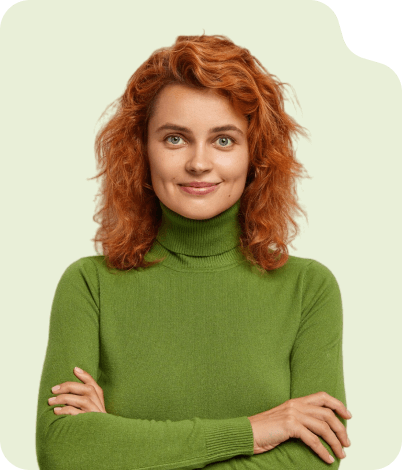
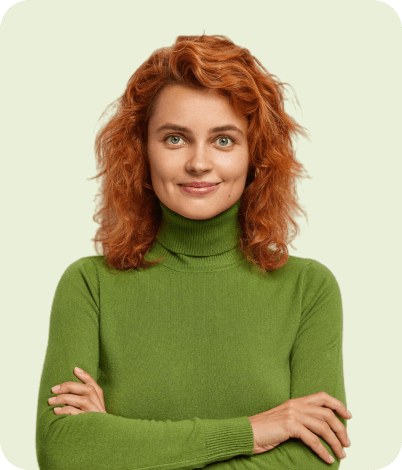
Add Testimonial Component

Changed region(s): [[0.806, 0.0, 1.0, 0.1787]]

diff --git a/src/Component1/Testimonial/Testimonial.jsx b/src/Component1/Testimonial/Testimonial.jsx
@@ -1,0 +1,211 @@
+import { useEffect, useRef } from "react";
+import { gsap } from "gsap";
+import { ScrollTrigger } from "gsap/ScrollTrigger";
+import testiThumb from "/images/testi-thumb.png";
+import testiProfile from "/images/testi-img.png";
+import testiProfile3 from "/images/testi-img.png";
+import testiProfile4 from "/images/testi-img.png";
+import { MdOutlineStarPurple500 } from "react-icons/md";
+import subtitleIcon from "/images/sub-title-icon.png";
+import shape from "/images/why-choose-shape.png";
+import shape2 from "/images/leaf.png";
+import aboutTeamImg from "/images/about-team-img.png";
+import aboutTeamImg2 from "/images/about-team-img2.png";
+import TestimonialCard from "./TestimonialCard";
+
+const testiData = [
+  {
+    workPlace: "Great 3d Modal",
+    testiDesc:
+      '"Partnering with this team helped us make our business more sustainable without into compromising ecological”',
+    testiRatingIcon: <MdOutlineStarPurple500 />,
+    testiProfile: testiProfile4,
+    testiName: "Jhon D. Alexon",
+    testiDesignation: "Web Developer",
+  },
+  {
+    workPlace: "Awesome Design",
+    testiDesc:
+      '"Partnering with this team helped us make our business more sustainable without into compromising ecological”',
+    testiRatingIcon: <MdOutlineStarPurple500 />,
+    testiProfile: testiProfile3,
+    testiName: "Michel Jiyang",
+    testiDesignation: "Web Developer",
+  },
+  {
+    workPlace: "Great Supports",
+    testiDesc:
+      '"Partnering with this team helped us make our business more sustainable without into compromising ecological”',
+    testiRatingIcon: <MdOutlineStarPurple500 />,
+    testiProfile: testiProfile,
+    testiName: "Anjelina Jholi",
+    testiDesignation: "Web Developer",
+  },
+  {
+    workPlace: "Smart Development",
+    testiDesc:
+      '"Partnering with this team helped us make our business more sustainable without into compromising ecological”',
+    testiRatingIcon: <MdOutlineStarPurple500 />,
+    testiProfile: testiProfile3,
+    testiName: "Mariya Watson",
+    testiDesignation: "Web Developer",
+  },
+];
+
+gsap.registerPlugin(ScrollTrigger);
+
+const Testimonial = () => {
+  const containerRef = useRef(null);
+  const stickyBoxRef = useRef(null);
+
+  useEffect(() => {
+    const ctx = gsap.context(() => {
+      const boxes = gsap.utils.toArray(".content-box");
+
+      // Sticky right box
+      ScrollTrigger.create({
+        trigger: stickyBoxRef.current,
+        start: "top 5%",
+        endTrigger: containerRef.current,
+        end: () => `bottom 99%`,
+        pin: true,
+        pinSpacing: false,
+        scrub: true,
+      });
+
+      // Activate boxes
+      boxes.forEach((box, i) => {
+        ScrollTrigger.create({
+          trigger: box,
+          start: "top 50%",
+          end: "bottom 50%",
+          onEnter: () => {
+            for (let j = 0; j <= i; j++) {
+              boxes[j].classList.add("before:opacity-0");
+              boxes[j].classList.remove("before:opacity-90");
+            }
+          },
+          onLeaveBack: () => {
+            for (let j = i; j < boxes.length; j++) {
+              boxes[j].classList.remove("before:opacity-0");
+              boxes[j].classList.add("before:opacity-90");
+            }
+          },
+        });
+      });
+
+      // Make sure all boxes are active when you reach bottom of scroll
+      ScrollTrigger.create({
+        trigger: containerRef.current,
+        start: "bottom bottom",
+        onEnter: () => {
+          boxes.forEach((box) => {
+            box.classList.add("before:opacity-0");
+            box.classList.remove("before:opacity-90");
+          });
+        },
+      });
+    }, containerRef);
+
+    return () => ctx.revert();
+  }, []);
+
+  return (
+    <div
+      className="bg-SecondaryColor-0 py-16 md:py-20 lg:py-[120px] -mt-[52px] relative overflow-hidden"
+      ref={containerRef}
+    >
+      <div className="absolute left-0 top-5">
+        <img
+          src={shape}
+          draggable={false}
+          alt="Shape"
+          className="animate-wiggle hidden lg:block"
+          style={{ animationDuration: "5s" }}
+        />
+      </div>
+      <div className="absolute right-[6%] top-28">
+        <img
+          src={shape2}
+          draggable={false}
+          alt="Shape"
+          className="animate-swing hidden lg:block"
+          style={{ animationDuration: "4s" }}
+        />
+      </div>
+      <div className="Container">
+        <div className="text-center  pt-[52px]">
+          <h5 className="font-Outfit text-lg font-medium leading-7 text-PrimaryColor-0 px-5 py-[3px] inline-flex items-center gap-2 border border-PrimaryColor-0 rounded-full">
+            <img src={subtitleIcon} alt="Icon" draggable={false} /> Projects
+          </h5>
+          <h1 className="font-Outfit font-semibold text-xl leading-7 sm:text-[34px] sm:leading-[44px] md:text-[44px] md:leading-[54px] lg:text-[30px] lg:leading-[40px] xl:text-[36px] xl:leading-[46px] 2xl:text-[50px] 2xl:leading-[58px] text-white mt-3.5">
+            We Bring Powerful Solution
+            <br />
+            Protect Environment
+          </h1>
+        </div>
+        <div className="grid grid-cols-2 gap-6 mt-[58px] mb-5">
+          {/* Left Column */}
+          <div className="space-y-6">
+            {testiData.map((item, index) => (
+              <div
+                key={index}
+                className="content-box relative before:absolute before:z-10 before:left-0 before:bottom-0 before:bg-gradient-to-b before:to-SecondaryColor-0 before:via-SecondaryColor-0/90 before:from-BodyBgDark-0/50 before:w-full before:h-full before:transition-all before:ease-linear before:duration-500"
+              >
+                <TestimonialCard {...item} />
+              </div>
+            ))}
+          </div>
+
+          {/* Right Column - Sticky Box */}
+          <div className="relative">
+            <div ref={stickyBoxRef} className="">
+              <div>
+                <div className="relative inline-block">
+                  <div className="absolute z-10 top-0 right-0">
+                    <div className="w-[85px] h-[70px] rounded-bl-[20px] bg-SecondaryColor-0 inline-block relative">
+                      <span className="absolute -left-[30px] top-0 rotate-180 size-[30px] inline-block bg-SecondaryColor-0 [clip-path:path('M0_0_Q0,30_30,30_L_0_30_Z')]"></span>
+                      <span className="absolute -bottom-[30px] right-0 rotate-180 size-[30px] inline-block bg-SecondaryColor-0 [clip-path:path('M0_0_Q0,30_30,30_L_0_30_Z')]"></span>
+                    </div>
+                  </div>
+                  <img
+                    src={testiThumb}
+                    alt="Testimonial Image"
+                    draggable={false}
+                  />
+                  <div className="absolute bottom-0 left-0 flex flex-col items-center justify-center text-center w-[220px] h-[230px] rounded-[20px] bg-PrimaryColor-0">
+                    <ul className="flex items-center -space-x-4">
+                      <li>
+                        <img
+                          src={aboutTeamImg}
+                          alt="About Team Image"
+                          draggable={false}
+                        />
+                      </li>
+                      <li>
+                        <img
+                          src={aboutTeamImg2}
+                          alt="About Team Image"
+                          draggable={false}
+                        />
+                      </li>
+                      <li className="relative z-10 size-14 flex items-center justify-center bg-PrimaryColor-0 border-[2.5px] border-white rounded-full font-Outfit text-white text-lg">
+                        5K+
+                      </li>
+                    </ul>
+                    <h6 className="font-Outfit text-white text-2xl leading-8 mt-7">
+                      Trusted Happy
+                      <br /> Customer
+                    </h6>
+                  </div>
+                </div>
+              </div>
+            </div>
+          </div>
+        </div>
+      </div>
+    </div>
+  );
+};
+
+export default Testimonial;

diff --git a/src/Component1/Testimonial/TestimonialCard.jsx b/src/Component1/Testimonial/TestimonialCard.jsx
@@ -1,20 +1,43 @@
 /* eslint-disable react/prop-types */
-// components/TestimonialCard.jsx
-const TestimonialCard = ({ image, name, role, text, active }) => (
-  <div
-    className={`testimonial-card transition-all duration-300 ease-in-out rounded-xl shadow p-6 mx-4 my-2 h-[200px] flex flex-col justify-center ${
-      active ? "bg-pink-200" : "bg-gray-200"
-    }`}
-  >
-    <div className="flex items-center mb-2">
-      <img src={image} alt={name} className="w-10 h-10 rounded-full mr-3" />
-      <div>
-        <h4 className="font-semibold text-base">{name}</h4>
-        <p className="text-sm text-gray-600">{role}</p>
+const TestimonialCard = ({
+  testiRatingIcon,
+  testiName,
+  testiProfile,
+  testiDesignation,
+  testiDesc,
+  workPlace,
+}) => {
+  return (
+    <div className="relative group px-4 sm:px-9 lg:px-4 xl:px-9 2xl:px-10 pt-4 sm:pt-8 lg:pt-4 xl:pt-12 pb-5 sm:pb-12 lg:pb-5 xl:pb-12 bg-BodyBgDark-0 rounded-[20px] ease-linear transition-all duration-500">
+      <ul className="flex items-center mb-5 gap-0.5">
+        {[...Array(5)].map((_, i) => (
+          <li key={i} className="text-ReviewText-0 text-2xl">
+            {testiRatingIcon}
+          </li>
+        ))}
+      </ul>
+      <p className="font-Outfit sm:text-lg lg:text-2xl xl:text-[28px] xl:leading-[40px] max-w-[530px] text-white font-light mb-9">
+        {testiDesc}
+      </p>
+
+      <div className="flex items-center gap-5">
+        <div>
+          <img src={testiProfile} draggable={false} alt="User Image" />
+        </div>
+        <div>
+          <h5 className="font-Outlet inline-block text-white text-xl sm:text-2xl lg:text-xl xl:text-2xl relative">
+            {testiName}
+          </h5>
+          <p className="font-NotoSans text-TextColor2-0 font-light flex items-center mt-2">
+            {testiDesignation}{" "}
+            <span className="relative pl-7 text-white before:absolute before:top-1/2 before:-translate-y-1/2 before:left-1.5 before:w-4 before:h-[1px] before:bg-TextColor2-0">
+              {workPlace}
+            </span>
+          </p>
+        </div>
       </div>
     </div>
-    <p className="text-gray-700 text-sm">{text}</p>
-  </div>
-);
+  );
+};
 
 export default TestimonialCard;

diff --git a/src/Component1/Whychoose/WhyChoose.jsx b/src/Component1/Whychoose/WhyChoose.jsx
@@ -61,11 +61,19 @@ const WhyChoose = () => {
         </div>
         <div className="grid grid-cols-1 lg:grid-cols-2 gap-10 md:gap-[92px] lg:gap-6 2xl:gap-10 mt-[60px]">
           <div className="relative z-10">
-            <img
-              src={whyChooseThumb}
-              draggable="false"
-              className="w-full xl:w-[inherit] 2xl:max-w-[inherit]"
-            />
+            <div className="relative inline-block">
+              <img
+                src={whyChooseThumb}
+                draggable="false"
+                className="w-full xl:w-[inherit] 2xl:max-w-[inherit]"
+              />
+              <div className="absolute top-0 right-0">
+                <div className="size-[90px] rounded-bl-[20px] bg-SecondaryColor-0 inline-block relative">
+                  <span className="absolute -left-[30px] top-0 rotate-180 size-[30px] inline-block bg-SecondaryColor-0 [clip-path:path('M0_0_Q0,30_30,30_L_0_30_Z')]"></span>
+                  <span className="absolute -bottom-[30px] right-0 rotate-180 size-[30px] inline-block bg-SecondaryColor-0 [clip-path:path('M0_0_Q0,30_30,30_L_0_30_Z')]"></span>
+                </div>
+              </div>
+            </div>
             <div className="hidden sm:block absolute bottom-20 -left-[100px] text-center bg-[url('/images/why-choose-info-bg.png')] bg-no-repeat bg-cover bg-top rounded-[20px] px-7 lg:px-5 xl:px-7 pt-10 pb-10 w-full max-w-[240px]">
               <div className="text-[40px] text-white flex items-center justify-center mb-3">
                 <PiSealCheckFill />

diff --git a/src/Component1/TeamMember/TeamCard.jsx b/src/Component1/TeamMember/TeamCard.jsx
@@ -14,6 +14,12 @@ const TeamCard = ({
 }) => {
   return (
     <div className="group rounded-[20px] relative z-10 overflow-hidden before:absolute before:left-0 before:bottom-0 before:w-full before:h-1/3 before:bg-gradient-to-b before:to-SecondaryColor-0 before:from-transparent before:z-10 before:transition-all before:duration-500 hover:before:h-1/2">
+      <div className="absolute z-10 top-0 right-0">
+        <div className="size-[60px] rounded-bl-[20px] bg-white inline-block relative">
+          <span className="absolute -left-[30px] top-0 rotate-180 size-[30px] inline-block bg-white [clip-path:path('M0_0_Q0,30_30,30_L_0_30_Z')]"></span>
+          <span className="absolute -bottom-[30px] right-0 rotate-180 size-[30px] inline-block bg-white [clip-path:path('M0_0_Q0,30_30,30_L_0_30_Z')]"></span>
+        </div>
+      </div>
       <img src={teamThumb} alt="Team Image" />
 
       {/* Info section */}

diff --git a/src/Component1/TeamMember/TeamMember.jsx b/src/Component1/TeamMember/TeamMember.jsx
@@ -63,7 +63,7 @@ const teamsData = [
 
 const TeamMember = () => {
   return (
-    <section className="bg-white px-[120px] py-16 md:py-20 lg:py-[120px] relative z-10">
+    <section className="bg-white px-[120px] py-16 md:py-20 lg:py-[120px] relative z-10 rounded-b-[50px] overflow-hidden">
       <div className="text-center">
         <h5 className="font-Outfit text-lg font-medium leading-7 text-PrimaryColor-0 px-5 py-[3px] inline-flex items-center gap-2 border border-PrimaryColor-0 rounded-full">
           <img src={subtitleIcon} alt="Icon" draggable={false} /> Our Teams

diff --git a/src/Pages/Home1/Home1.jsx b/src/Pages/Home1/Home1.jsx
@@ -6,6 +6,7 @@ import Process from "../../Component1/Process/Process";
 import Project from "../../Component1/Project/Project";
 import Service from "../../Component1/Service/Service";
 import TeamMember from "../../Component1/TeamMember/TeamMember";
+import Testimonial from "../../Component1/Testimonial/Testimonial";
 import WhyChoose from "../../Component1/Whychoose/WhyChoose";
 
 const Home1 = () => {
@@ -18,6 +19,7 @@ const Home1 = () => {
       <Project />
       <Process />
       <TeamMember />
+      <Testimonial />
       <Blog />
       <Brand />
     </>

diff --git a/src/Component1/Project/Project.jsx b/src/Component1/Project/Project.jsx
@@ -1,4 +1,3 @@
-// components/Project.jsx
 import { useEffect } from "react";
 import { gsap } from "gsap";
 import { ScrollTrigger } from "gsap/ScrollTrigger";
@@ -86,7 +85,8 @@ const Project = () => {
             className="animate-swing hidden lg:block"
             style={{ animationDuration: "2.5s" }}
           />
-        </div><div className="absolute -right-5 top-[86px]">
+        </div>
+        <div className="absolute -right-5 top-[86px]">
           <img
             src={shape2}
             draggable={false}

diff --git a/src/Main/Main.jsx b/src/Main/Main.jsx
@@ -9,6 +9,7 @@ import ScrollSmoother from "gsap/ScrollSmoother";
 import ScrollToPlugin from "gsap/ScrollToPlugin";
 import HelmetChanger from "../Shared/Helmet/Helmet";
 import ImageReveal from "../Shared/ImageReveal/ImageReveal";
+import TextReveal from "../Shared/TextAnim/TextReveal";
 
 gsap.registerPlugin(ScrollTrigger, ScrollSmoother, ScrollToPlugin);
 
@@ -16,6 +17,10 @@ const Main = () => {
   //image Reveal
 
   ImageReveal();
+
+  //image Reveal
+
+  TextReveal();
 
   //Scroll Smoother
 

diff --git a/src/Shared/TextAnim/TextReveal.jsx b/src/Shared/TextAnim/TextReveal.jsx
@@ -51,7 +51,7 @@ const TextReveal = () => {
           opacity: 1,
           scale: 1,
           y: 0,
-          duration: 1,
+          duration: 0.5,
           ease: "power3.out",
           stagger: 0.05,
           scrollTrigger: {
